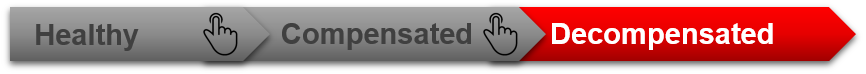
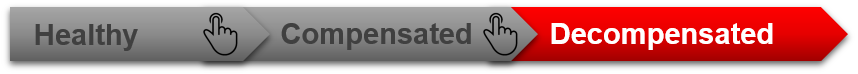
Progress bar appearance updates
Shrink size of progress bar to fix inside left panel. Also add back in coronary artery illustrations to heart attack sections.

Changed region(s): [[0.2121, 0.1081, 0.9091, 0.8378], [0.0909, 0.3243, 0.1818, 0.6216]]

diff --git a/index.html b/index.html
@@ -212,13 +212,13 @@
 				</div>
 
 				<div class="leftProgressBar">
-					<div style="max-width:100%;background-color: transparent;">
-						<div class="progressClickable" style="left:0%;width:33%;background-color: transparent;">
+					<div style="max-width:100%;">
+						<div class="progressClickable" style="left:0%;width:44%;background-color:transparent;">
 						</div>
-						<div class="progressClickable" style="left:45%;width:33%;background-color: transparent;" onclick="arrhythmiaClicked()">
+						<div class="progressClickable" style="left:45%;width:47%;background-color:transparent;" onclick="arrhythmiaClicked()">
 						</div>
 					</div>
-					<img src="images/heart_v7/health_electricity_hand.png" alt="information" height="60px">
+					<img src="images/heart_v7/health_electricity_hand.png" alt="information" height="45px">
 				</div>
 			</div>
 
@@ -247,13 +247,13 @@
 					<b><br>Defibrillate</b>
 				</div>
 				<div class="leftProgressBar">
-					<div style="max-width:100%;background-color: transparent;">
-						<div class="progressClickable" style="left:0%;width:33%;background-color: transparent;" onclick="heartElectricityClicked()">
+					<div style="max-width:100%;">
+						<div class="progressClickable" style="left:0%;width:44%;background-color:transparent;" onclick="heartElectricityClicked()">
 						</div>
-						<div class="progressClickable" style="left:45%;width:33%;background-color: transparent;">
+						<div class="progressClickable" style="left:45%;width:47%;background-color:transparent;">
 						</div>
 					</div>
-					<img src="images/heart_v7/fibrillation_electricity_hand.png" alt="information" height="60px">
+					<img src="images/heart_v7/fibrillation_electricity_hand.png" alt="information" height="45px">
 				</div>
 			</div>
 
@@ -271,6 +271,7 @@
 					<div class="leftAnswer closed" id="attack_1_a">
 						<p>The heart pumps blood, but it is also an organ which needs oxygen and nutrients from the blood to survive.
 						The heart pumps blood to itself through vessels called the coronary arteries.</p>
+						<img src="images/heart_v7/coronary_heart.png" alt="coronary" style="width:45%;">
 					</div>
 					<div class="downArrow open" id="attack_1_d" onclick="showAttackAnswer(1, 2)">
 					</div>
@@ -284,6 +285,7 @@
 					<div class="leftAnswer closed" id="attack_2_a">
 						<p>If a coronary artery gets blockages, blood flow is impeded, which means less oxygen and nutrients.
 						Without oxygen and nutrients the heart muscle is damaged (the shaded part).</p>
+						<img src="images/heart_v7/coronary_block_moderate_no_vid.png" alt="moderate" style="width:45%;">
 					</div>
 					<div class="downArrow open" id="attack_2_d" onclick="showAttackAnswer(2, 2)">
 					</div>
@@ -293,14 +295,14 @@
 
 				<div class="leftProgressBar">
 					<div style="max-width:100%;background-color: transparent;">
-						<div class="progressClickable" style="left:0%;width:33%;background-color: transparent;">
+						<div class="progressClickable" style="left:0%;width:32%;background-color:transparent;">
 						</div>
-						<div class="progressClickable" style="left:33%;width:33%;background-color: transparent;"  onclick="heartAttackStagePressed('SmallInfarct', 'MildHeartAttack', 'leftModerateAttack')">
+						<div class="progressClickable" style="left:33%;width:32%;background-color:transparent;"  onclick="heartAttackStagePressed('SmallInfarct', 'MildHeartAttack', 'leftModerateAttack')">
 						</div>
-						<div class="progressClickable" style="left:66%;width:33%;background-color: transparent;"  onclick="heartAttackStagePressed('LargeInfarct', 'SevereHeartAttack', 'leftSevereAttack')">
+						<div class="progressClickable" style="left:66%;width:30%;background-color:transparent;"  onclick="heartAttackStagePressed('LargeInfarct', 'SevereHeartAttack', 'leftSevereAttack')">
 						</div>
 					</div>
-					<img src="images/heart_v7/health_attack_hand.png" alt="information" height="60px">
+					<img src="images/heart_v7/health_attack_hand.png" alt="information" height="45px">
 				</div>
 			</div>
 
@@ -333,6 +335,7 @@
 					<div class="leftAnswer closed" id="moderate_2_a">
 						<p>If it gets worse even less blood can get through which results in even more muscle damage.
 						 The movement and pumping ability of the heart is severely affected.</p>
+						 <img src="images/heart_v7/coronary_block_severe.png" alt="severe" style="width:45%;">
 					</div>
 					<div class="downArrow open" id="moderate_2_d" onclick="showModerateAnswer(2, 2)">
 					</div>
@@ -341,14 +344,14 @@
 				</div>
 				<div class="leftProgressBar">
 					<div style="max-width:100%;background-color: transparent;">
-						<div class="progressClickable" style="left:0%;width:33%;background-color: transparent;" onclick="heartAttackStagePressed('NoInfarct', 'NoHeartAttack', 'leftHeartAttack')">
+						<div class="progressClickable" style="left:0%;width:32%;background-color:transparent;" onclick="heartAttackStagePressed('NoInfarct', 'NoHeartAttack', 'leftHeartAttack')">
 						</div>
-						<div class="progressClickable" style="left:33%;width:33%;background-color: transparent;">
+						<div class="progressClickable" style="left:33%;width:32%;background-color:transparent;">
 						</div>
-						<div class="progressClickable" style="left:66%;width:33%;background-color: transparent;"  onclick="heartAttackStagePressed('LargeInfarct', 'SevereHeartAttack', 'leftSevereAttack')">
+						<div class="progressClickable" style="left:66%;width:32%;background-color:transparent;"  onclick="heartAttackStagePressed('LargeInfarct', 'SevereHeartAttack', 'leftSevereAttack')">
 						</div>
 					</div>
-					<img src="images/heart_v7/moderate_attack_hand.png" alt="information" height="60px">
+					<img src="images/heart_v7/moderate_attack_hand.png" alt="information" height="45px">
 				</div>
 			</div>
 
@@ -358,14 +361,14 @@
 				</div>
 				<div class="leftProgressBar">
 					<div style="max-width:100%;background-color: transparent;">
-						<div class="progressClickable" style="left:0%;width:33%;background-color: transparent;" onclick="heartAttackStagePressed('NoInfarct', 'NoHeartAttack', 'leftHeartAttack')">
+						<div class="progressClickable" style="left:0%;width:32%;background-color:transparent;" onclick="heartAttackStagePressed('NoInfarct', 'NoHeartAttack', 'leftHeartAttack')">
 						</div>
-						<div class="progressClickable" style="left:33%;width:33%;background-color: transparent;" onclick="heartAttackStagePressed('SmallInfarct', 'MildHeartAttack', 'leftModerateAttack')">
+						<div class="progressClickable" style="left:33%;width:32%;background-color:transparent;" onclick="heartAttackStagePressed('SmallInfarct', 'MildHeartAttack', 'leftModerateAttack')">
 						</div>
-						<div class="progressClickable" style="left:66%;width:33%;background-color: transparent;">
+						<div class="progressClickable" style="left:66%;width:32%;background-color:transparent;">
 						</div>
 					</div>
-					<img src="images/heart_v7/severe_attack_hand.png" alt="information" height="60px">
+					<img src="images/heart_v7/severe_attack_hand.png" alt="information" height="45px">
 				</div>
 			</div>
 
@@ -391,14 +394,14 @@
 				</div>
 				<div class="leftProgressBar">
 					<div style="max-width:100%;background-color: transparent;">
-						<div class="progressClickable" style="left:0%;width:33%;background-color: transparent;">
+						<div class="progressClickable" style="left:0%;width:28%;background-color: transparent;">
 						</div>
-						<div class="progressClickable" style="left:33%;width:33%;background-color: transparent;"  onclick="heartFailureStagePressed('CompensatedFailure', 'CompensatedFailure', 'leftCompensatedFailure')">
+						<div class="progressClickable" style="left:30%;width:30%;background-color: transparent;"  onclick="heartFailureStagePressed('CompensatedFailure', 'CompensatedFailure', 'leftCompensatedFailure')">
 						</div>
-						<div class="progressClickable" style="left:66%;width:33%;background-color: transparent;"  onclick="heartFailureStagePressed('DecompensatedFailure', 'DecompensatedFailure', 'leftDecompensatedFailure')">
+						<div class="progressClickable" style="left:62%;width:34%;background-color: transparent;"  onclick="heartFailureStagePressed('DecompensatedFailure', 'DecompensatedFailure', 'leftDecompensatedFailure')">
 						</div>
 					</div>
-					<img src="images/heart_v7/heart_failure_hand.png" alt="information" height="60px">
+					<img src="images/heart_v7/heart_failure_hand.png" alt="information" height="45px">
 				</div>
 			</div>
 
@@ -424,14 +427,14 @@
 				</div>
 				<div class="leftProgressBar">
 					<div style="max-width:100%;background-color: transparent;">
-						<div class="progressClickable" style="left:0%;width:33%;background-color: transparent;" onclick="heartFailureStagePressed('NoFailure', 'NoFailure', 'leftHeartFailure')">
+						<div class="progressClickable" style="left:0%;width:28%;background-color: transparent;" onclick="heartFailureStagePressed('NoFailure', 'NoFailure', 'leftHeartFailure')">
 						</div>
-						<div class="progressClickable" style="left:33%;width:33%;background-color: transparent;">
+						<div class="progressClickable" style="left:30%;width:30%;;background-color: transparent;">
 						</div>
-						<div class="progressClickable" style="left:66%;width:33%;background-color: transparent;"  onclick="heartFailureStagePressed('DecompensatedFailure', 'DecompensatedFailure', 'leftDecompensatedFailure')">
+						<div class="progressClickable" style="left:62%;width:34%;background-color: transparent;"  onclick="heartFailureStagePressed('DecompensatedFailure', 'DecompensatedFailure', 'leftDecompensatedFailure')">
 						</div>
 					</div>
-					<img src="images/heart_v7/compensated_failure_hand.png" alt="information" height="60px">
+					<img src="images/heart_v7/compensated_failure_hand.png" alt="information" height="45px">
 				</div>
 			</div>
 
@@ -453,14 +456,14 @@
 				</div>
 				<div class="leftProgressBar">
 					<div style="max-width:100%;background-color: transparent;">
-						<div class="progressClickable" style="left:0%;width:33%;background-color: transparent;" onclick="heartFailureStagePressed('NoFailure', 'NoFailure', 'leftHeartFailure')">
+						<div class="progressClickable" style="left:0%;width:28%;background-color: transparent;" onclick="heartFailureStagePressed('NoFailure', 'NoFailure', 'leftHeartFailure')">
 						</div>
-						<div class="progressClickable" style="left:33%;width:33%;background-color: transparent;" onclick="heartFailureStagePressed('CompensatedFailure', 'CompensatedFailure', 'leftCompensatedFailure')">
+						<div class="progressClickable" style="left:30%;width:30%;background-color: transparent;" onclick="heartFailureStagePressed('CompensatedFailure', 'CompensatedFailure', 'leftCompensatedFailure')">
 						</div>
-						<div class="progressClickable" style="left:66%;width:33%;background-color: transparent;">
+						<div class="progressClickable" style="left:62%;width:34%;background-color: transparent;">
 						</div>
 					</div>
-					<img src="images/heart_v7/decompensated_failure_hand.png" alt="information" height="60px">
+					<img src="images/heart_v7/decompensated_failure_hand.png" alt="information" height="45px">
 				</div>
 			</div>
 		</div>
@@ -481,7 +484,6 @@
 		</div>
 		<div id="myRenderer" class="open">
 		</div>
-
 		<div data-dojo-type="dijit/Dialog" data-dojo-id="videoDialog" id='videoDialog' onHide="pauseVideo()" style="background-color:#666;width:980px;height:760px">
     		<table class="dijitDialogPaneContentArea">
 				<video width="960" height="720" align="center" style = "left:10px;top:6px;position:relative" id="heart_video" controls>
@@ -490,7 +492,6 @@
 				</video>
     		</table>
 		</div>
-
 	</div>
 
 	<script>

diff --git a/styles/new_style.css b/styles/new_style.css
@@ -447,7 +447,7 @@ div.leftClickableAED{
   vertical-align: middle;
   display: block;
   position: absolute;
-  top: 75%;
+  top: 70%;
   height:20%;
   width: 100%;
   font-size: 1.7em;
@@ -486,7 +486,7 @@ div.leftProgressBar {
   text-align: left;
   vertical-align: middle;
   font-size: 1.3em;
-  top: 70%;
+  top: 80%;
   z-index:1;
   position: absolute;
 }
@@ -664,7 +664,6 @@ div.progressClickable:hover {
 }
 
 div.progressClickable {
-	background-color: transparent;
  	height:100%;
  	position: absolute;
 }
